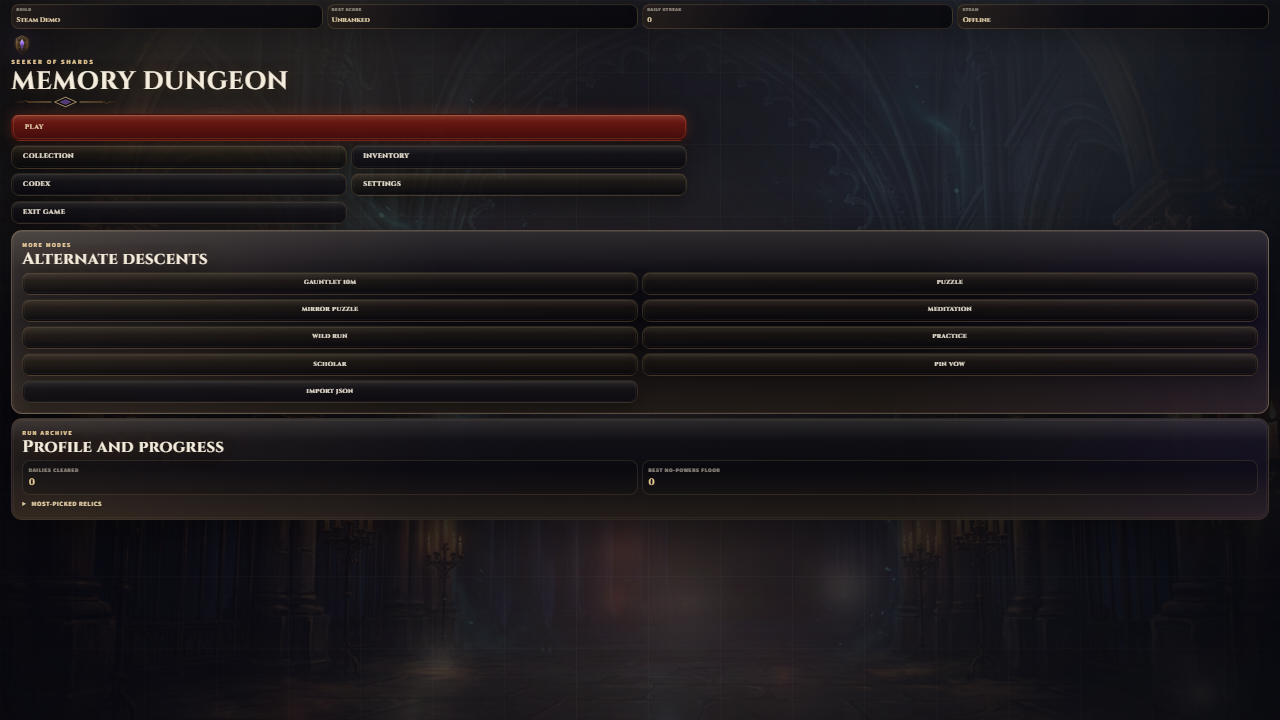
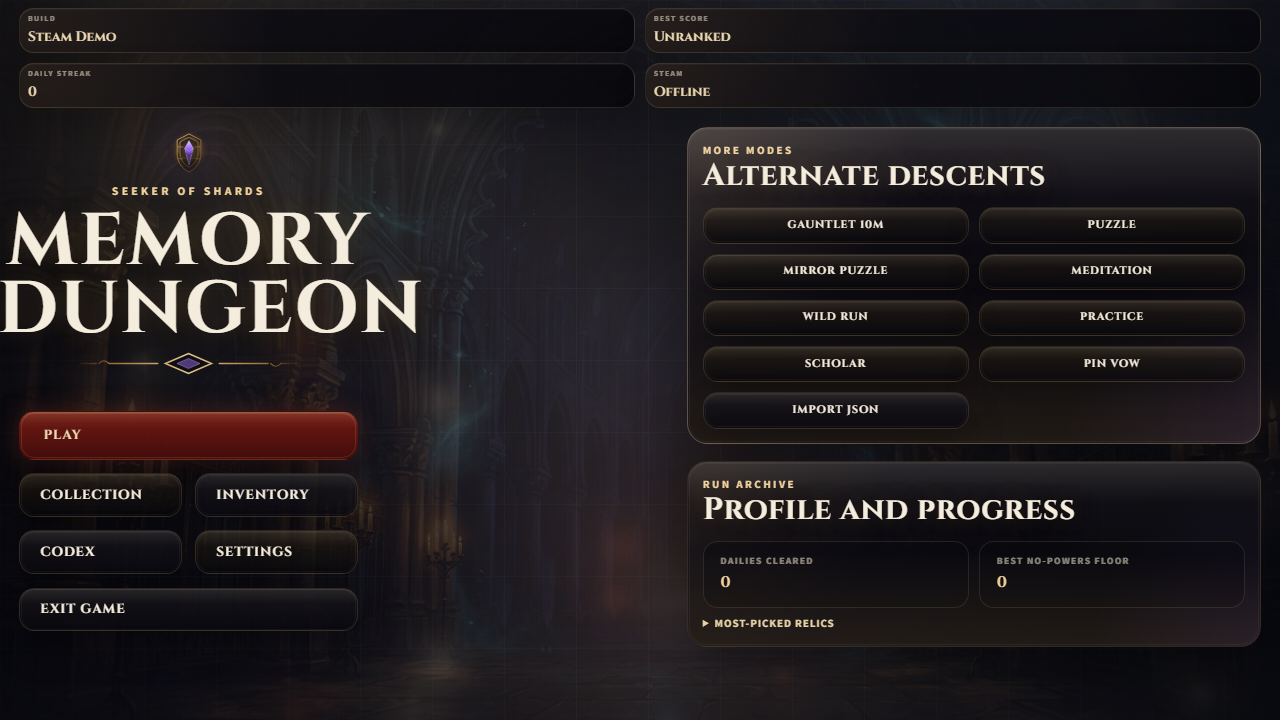
fix: narrow short-landscape menu stacking

diff --git a/src/renderer/components/ChooseYourPathScreen.tsx b/src/renderer/components/ChooseYourPathScreen.tsx
@@ -1,6 +1,6 @@
 import { useEffect, useRef, useState } from 'react';
 import { useFitShellZoom } from '../hooks/useFitShellZoom';
-import { isShortLandscapeViewport, VIEWPORT_MOBILE_MAX } from '../breakpoints';
+import { isNarrowShortLandscapeForMenuStack, isShortLandscapeViewport, VIEWPORT_MOBILE_MAX } from '../breakpoints';
 import { useViewportSize } from '../hooks/useViewportSize';
 import { useShallow } from 'zustand/react/shallow';
 import { formatNextUtcReset } from '../../shared/utc-countdown';
@@ -26,7 +26,7 @@ const ChooseYourPathScreen = () => {
     const isPhoneViewport = vpW <= VIEWPORT_MOBILE_MAX;
     const isShortLandscapeShell = isShortLandscapeViewport(vpW, vpH);
     const pathFitPadding = vpW >= 1024 && vpH <= 760 ? 8 : 14;
-    const pathTouchCompact = isPhoneViewport || isShortLandscapeShell;
+    const pathTouchCompact = isPhoneViewport || isNarrowShortLandscapeForMenuStack(vpW, vpH);
     const { fitZoom: rawPathFitZoom } = useFitShellZoom({
         enabled: true,
         measureRef: pathFitMeasureRef,
@@ -44,7 +44,7 @@ const ChooseYourPathScreen = () => {
     return (
         <section
             aria-label="Choose Your Path"
-            className={`${metaStyles.shell} ${metaStyles.shellMetaStage} ${isPhoneViewport ? styles.compactPathShell : ''} ${isShortLandscapeShell ? styles.shortTouchLandscapeShell : ''}`.trim()}
+            className={`${metaStyles.shell} ${metaStyles.shellMetaStage} ${pathTouchCompact ? styles.compactPathShell : ''} ${isShortLandscapeShell ? styles.shortTouchLandscapeShell : ''}`.trim()}
             role="region"
         >
             <div className={styles.pathFitViewport}>

diff --git a/src/renderer/breakpoints.test.ts b/src/renderer/breakpoints.test.ts
@@ -1,5 +1,10 @@
 import { describe, expect, it } from 'vitest';
-import { isShortLandscapeViewport, VIEWPORT_SHORT_LANDSCAPE_MAX_HEIGHT } from './breakpoints';
+import {
+    isNarrowShortLandscapeForMenuStack,
+    isShortLandscapeViewport,
+    VIEWPORT_LANDSCAPE_STACK_MAX_WIDTH,
+    VIEWPORT_SHORT_LANDSCAPE_MAX_HEIGHT
+} from './breakpoints';
 
 describe('isShortLandscapeViewport', () => {
     it('is true for 1280×720 HD landscape', () => {
@@ -18,5 +23,23 @@ describe('isShortLandscapeViewport', () => {
         expect(VIEWPORT_SHORT_LANDSCAPE_MAX_HEIGHT).toBe(860);
         expect(isShortLandscapeViewport(2000, 860)).toBe(true);
         expect(isShortLandscapeViewport(2000, 861)).toBe(false);
+    });
+});
+
+describe('isNarrowShortLandscapeForMenuStack', () => {
+    it('is false for wide short HD (1280×720)', () => {
+        expect(isNarrowShortLandscapeForMenuStack(1280, 720)).toBe(false);
+    });
+
+    it('is true for narrow short landscape (900×700)', () => {
+        expect(isNarrowShortLandscapeForMenuStack(900, 700)).toBe(true);
+    });
+
+    it('is true at exactly stack max width when short landscape', () => {
+        expect(isNarrowShortLandscapeForMenuStack(VIEWPORT_LANDSCAPE_STACK_MAX_WIDTH, 720)).toBe(true);
+    });
+
+    it('is false one px above stack max width', () => {
+        expect(isNarrowShortLandscapeForMenuStack(VIEWPORT_LANDSCAPE_STACK_MAX_WIDTH + 1, 720)).toBe(false);
     });
 });

diff --git a/src/renderer/components/MainMenu.tsx b/src/renderer/components/MainMenu.tsx
@@ -7,7 +7,12 @@ import { useFitShellZoom } from '../hooks/useFitShellZoom';
 import { useShallow } from 'zustand/react/shallow';
 import { UI_ART } from '../assets/ui';
 import { desktopClient } from '../desktop-client';
-import { isShortLandscapeViewport, VIEWPORT_MOBILE_MAX, VIEWPORT_TABLET_MAX } from '../breakpoints';
+import {
+    isNarrowShortLandscapeForMenuStack,
+    isShortLandscapeViewport,
+    VIEWPORT_MOBILE_MAX,
+    VIEWPORT_TABLET_MAX
+} from '../breakpoints';
 import { useViewportSize } from '../hooks/useViewportSize';
 import { usePlatformTiltField } from '../platformTilt/usePlatformTiltField';
 import { useAppStore } from '../store/useAppStore';
@@ -93,7 +98,7 @@ const MainMenu = ({
     const isPhoneViewport = width <= VIEWPORT_MOBILE_MAX;
     const isShortLandscapeShell = isShortLandscapeViewport(width, height);
     const ultraCompactPhone = width <= 430 && height <= 700;
-    const touchCompactLayout = isPhoneViewport || isShortLandscapeShell;
+    const touchCompactLayout = isPhoneViewport || isNarrowShortLandscapeForMenuStack(width, height);
     const prioritizeModesInHero = width <= VIEWPORT_TABLET_MAX;
     /** Layout-only compaction for wide, short desktop (not tied to fit-zoom, which runs for all sizes). */
     const shortDesktopShell = !touchCompactLayout && width >= 1024 && height <= 760;

diff --git a/src/renderer/breakpoints.ts b/src/renderer/breakpoints.ts
@@ -15,3 +15,12 @@ export const VIEWPORT_SHORT_LANDSCAPE_MAX_HEIGHT = 860;
 
 export const isShortLandscapeViewport = (width: number, height: number): boolean =>
     width > height && height > 0 && height <= VIEWPORT_SHORT_LANDSCAPE_MAX_HEIGHT;
+
+/**
+ * Max width (CSS px) at which short landscape still stacks main-menu hero + support to one column.
+ * Wider short HD (e.g. 1280×720, 1920×720) keeps two columns; narrow cases (844×390, 900×700) stack.
+ */
+export const VIEWPORT_LANDSCAPE_STACK_MAX_WIDTH = 960;
+
+export const isNarrowShortLandscapeForMenuStack = (width: number, height: number): boolean =>
+    isShortLandscapeViewport(width, height) && width <= VIEWPORT_LANDSCAPE_STACK_MAX_WIDTH;

diff --git a/src/renderer/components/SettingsScreen.module.css b/src/renderer/components/SettingsScreen.module.css
@@ -331,7 +331,7 @@
     gap: var(--ui-footer-action-gap);
 }
 
-@media (max-width: 960px), (max-height: 760px) {
+@media (max-width: 960px), ((max-height: 760px) and (max-width: 1024px)) {
     .frame {
         grid-template-columns: 1fr;
     }
@@ -347,7 +347,7 @@
     }
 }
 
-@media (max-width: 760px), (max-height: 760px) {
+@media (max-width: 760px), ((max-height: 760px) and (max-width: 1024px)) {
     .shell {
         place-items: start;
     }

diff --git a/src/renderer/components/MainMenu.module.css b/src/renderer/components/MainMenu.module.css
@@ -516,11 +516,6 @@
     --menu-content-pad-block-end: var(--theme-space-sm);
 }
 
-.shortTouchLandscapeShell .layout {
-    grid-template-columns: 1fr;
-    align-items: stretch;
-}
-
 .shortTouchLandscapeShell .metaRow {
     grid-template-columns: repeat(4, minmax(0, 1fr));
 }

diff --git a/docs/VIEWPORT_FIT_UI.md b/docs/VIEWPORT_FIT_UI.md
@@ -4,6 +4,8 @@
 
 Shipped chrome (main menu, meta shells, settings, modals, panels) must not use **`overflow-y: auto` / `scroll`** on HTML. Prefer **`@media` / `@container` reflow**, **row→column** layout, **progressive disclosure** (group or hide secondary actions), then **uniform `zoom`** via [`useFitShellZoom`](../src/renderer/hooks/useFitShellZoom.ts). Short landscape detection for layout matches [`VIEWPORT_SHORT_LANDSCAPE_MAX_HEIGHT`](../src/renderer/breakpoints.ts) (860px) in TS and in shell CSS.
 
+**Main menu stack vs fit:** Short height alone does not force the phone-style single-column hero/support stack. That stack applies when the viewport is a **phone** (`width ≤ VIEWPORT_MOBILE_MAX`) or a **narrow** short landscape: [`isNarrowShortLandscapeForMenuStack`](../src/renderer/breakpoints.ts) (`isShortLandscapeViewport` **and** `width ≤ VIEWPORT_LANDSCAPE_STACK_MAX_WIDTH`, 960px). Examples: **844×390** and **900×700** stack; **1280×720** and **1920×720** keep the two-column grid and rely on fit zoom + tokens for height.
+
 This project keeps meta shells (main menu, choose-your-path, etc.) inside the visible area **without document scrolling**, using a hybrid of **layout compaction** and **uniform scale** when content would still overflow.
 
 ## Guides and patterns (bookmark)
@@ -31,7 +33,7 @@ A minimal **spike test** lives at [`src/renderer/dev/fitScreenSpike.test.tsx`](.
 ## In-repo decision (why not replace `useFitShellZoom` today)
 
 1. **Implementation today** — [`src/renderer/hooks/useFitShellZoom.ts`](../src/renderer/hooks/useFitShellZoom.ts) + **`zoom`** on the inner menu/path column:
-   - Uses **`ResizeObserver`** and measured **`scrollWidth` / `scrollHeight`** so short landscape heights (e.g. 844×390) get a correct intrinsic height.
+   - Recomputes on viewport size, **`document.fonts.ready`**, and a short delayed pass; measures the wrapper and unwraps the current zoom to get intrinsic size (no ResizeObserver loop on the shell).
    - **`zoom`** adjusts layout size in Chromium, which matches **Steam / Electron** and keeps **hit targets** aligned with painted controls (same concern as `transform` + wrapper math, but less glue code).
 
 2. **`@fit-screen/react`** uses **`transform: scale`** from a **fixed design draft** (`width` / `height` props). That is a good fit when the entire UI is authored at one resolution. Our menu height is **content-driven** (save state, “How to play”, etc.), so a single draft size is a second source of truth unless we lock layout to a canvas-like frame.
